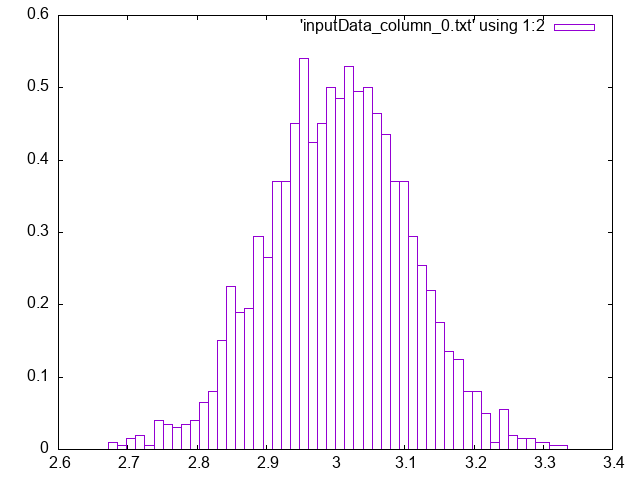
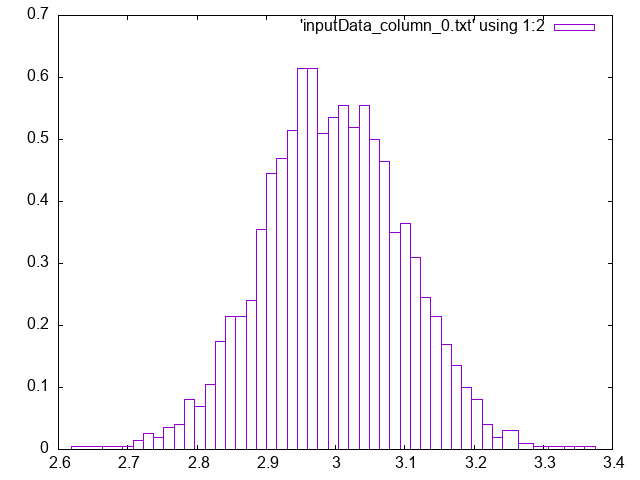
made procent

diff --git a/mcmc2.cpp b/mcmc2.cpp
@@ -162,20 +162,22 @@ void integrate(std::vector<double> &x, std::vector<double> &v,
   }
 }
 
-
 // Функция для выполнения HMC
 std::vector<std::vector<double>> hmc(Model &model,
                                      const std::vector<double> &initial_x,
                                      int num_samples, double epsilon,
                                      int num_steps) {
   std::vector<double> x = initial_x;
-  std::vector<std::vector<double>>
-      samples; // Матрица выборок (num_samples x DIM)
+  std::vector<std::vector<double>> samples;
 
   // Генерация данных (batch)
   std::vector<std::vector<double>> data = model.getData();
 
   for (int n = 0; n < num_samples; ++n) {
+    if (n % (num_samples / 10) == 0) { // Печатаем процент каждый 10% выполнения
+      std::cout << "Progress: " << (n * 100) / num_samples << "%\n";
+    }
+
     // 1. Генерация случайного импульса
     std::vector<double> v = model.generateRandomMomentum();
 
@@ -269,8 +271,8 @@ void plotHistogram(const std::string &filename) {
 int main() {
   int dim = 3;              // Количество параметров
   int sampleSize = 200;     // Количество выборок
-  int num_steps = 1000;      // Количество шагов интегрирования
-  double epsilon = 0.0001;  // Шаг по времени
+  int num_steps = 1000;     // Количество шагов интегрирования
+  double epsilon = 0.00001; // Шаг по времени
   double noiseStddev = 0.1; // Стандартное отклонение шума
   double lowBound = -5.0;   // Нижняя граница параметров
   double upperBound = 5.0;  // Верхняя граница параметров
